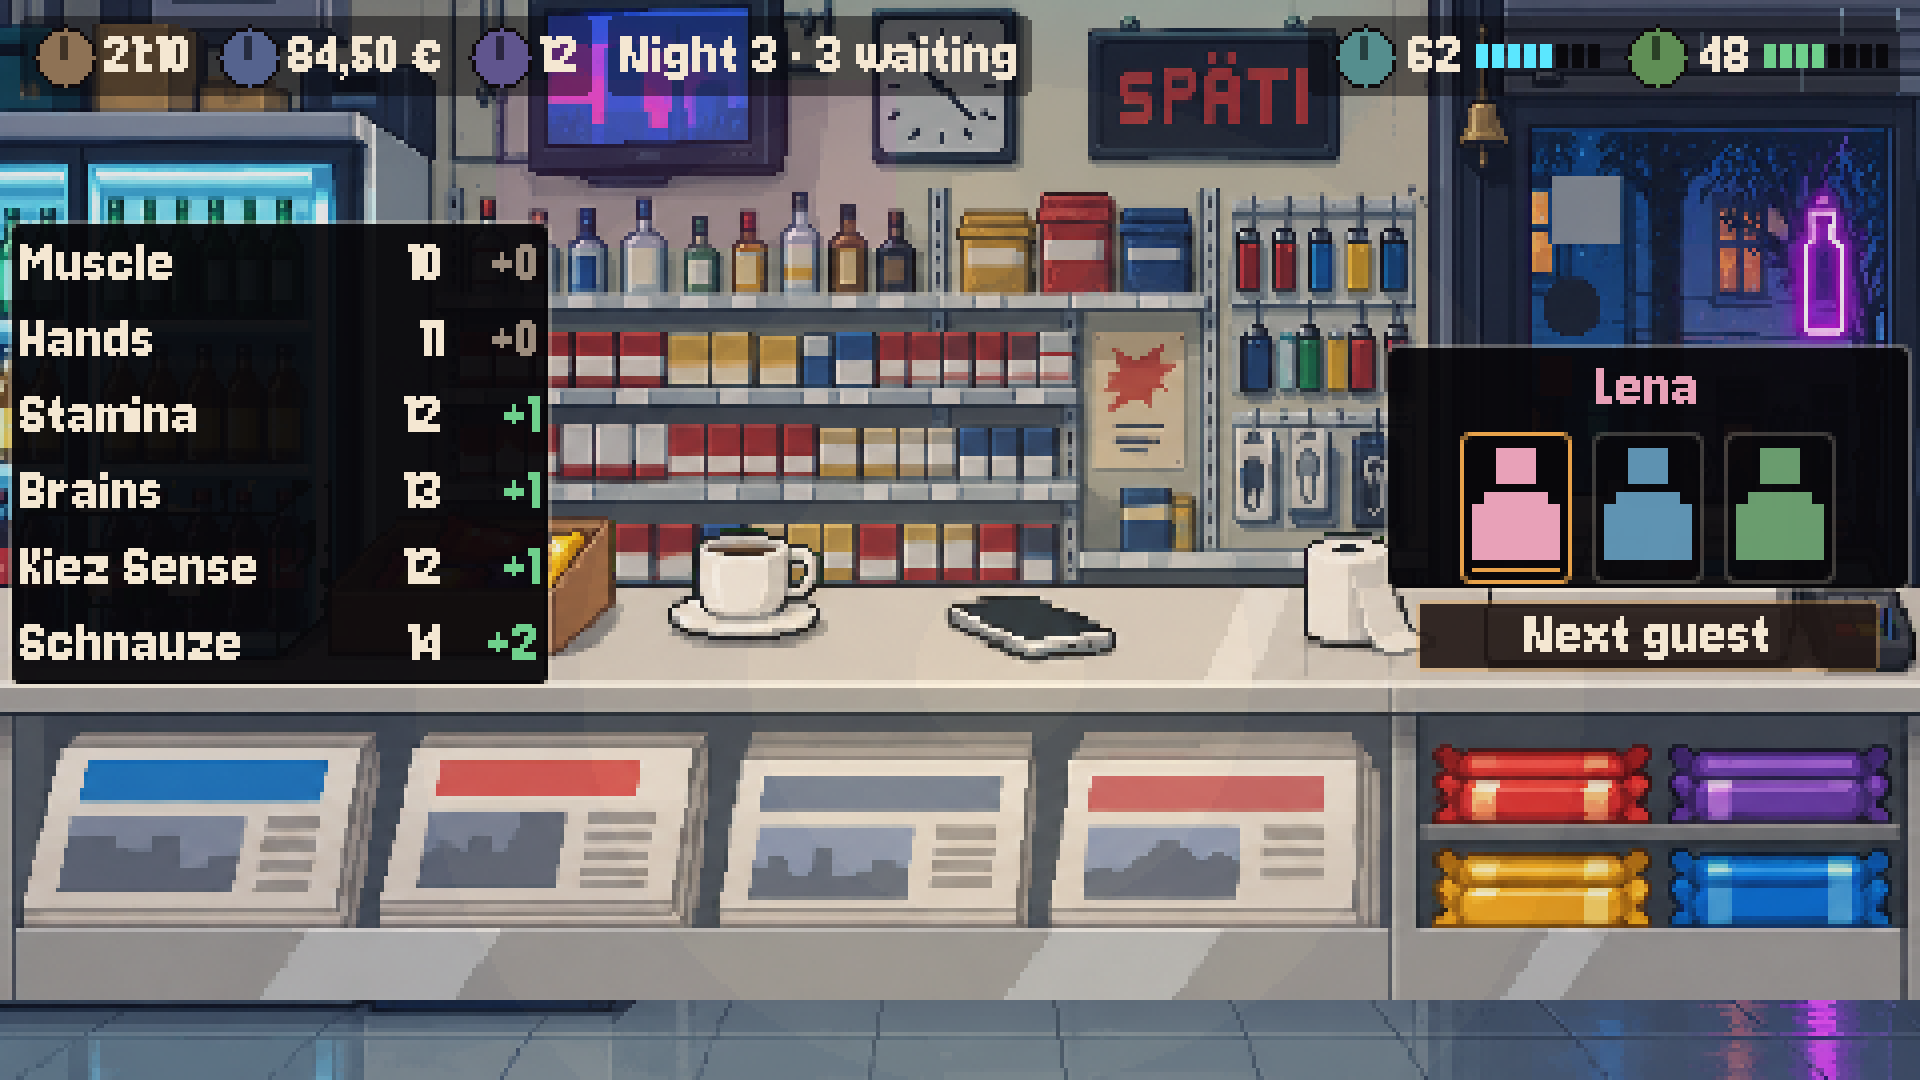
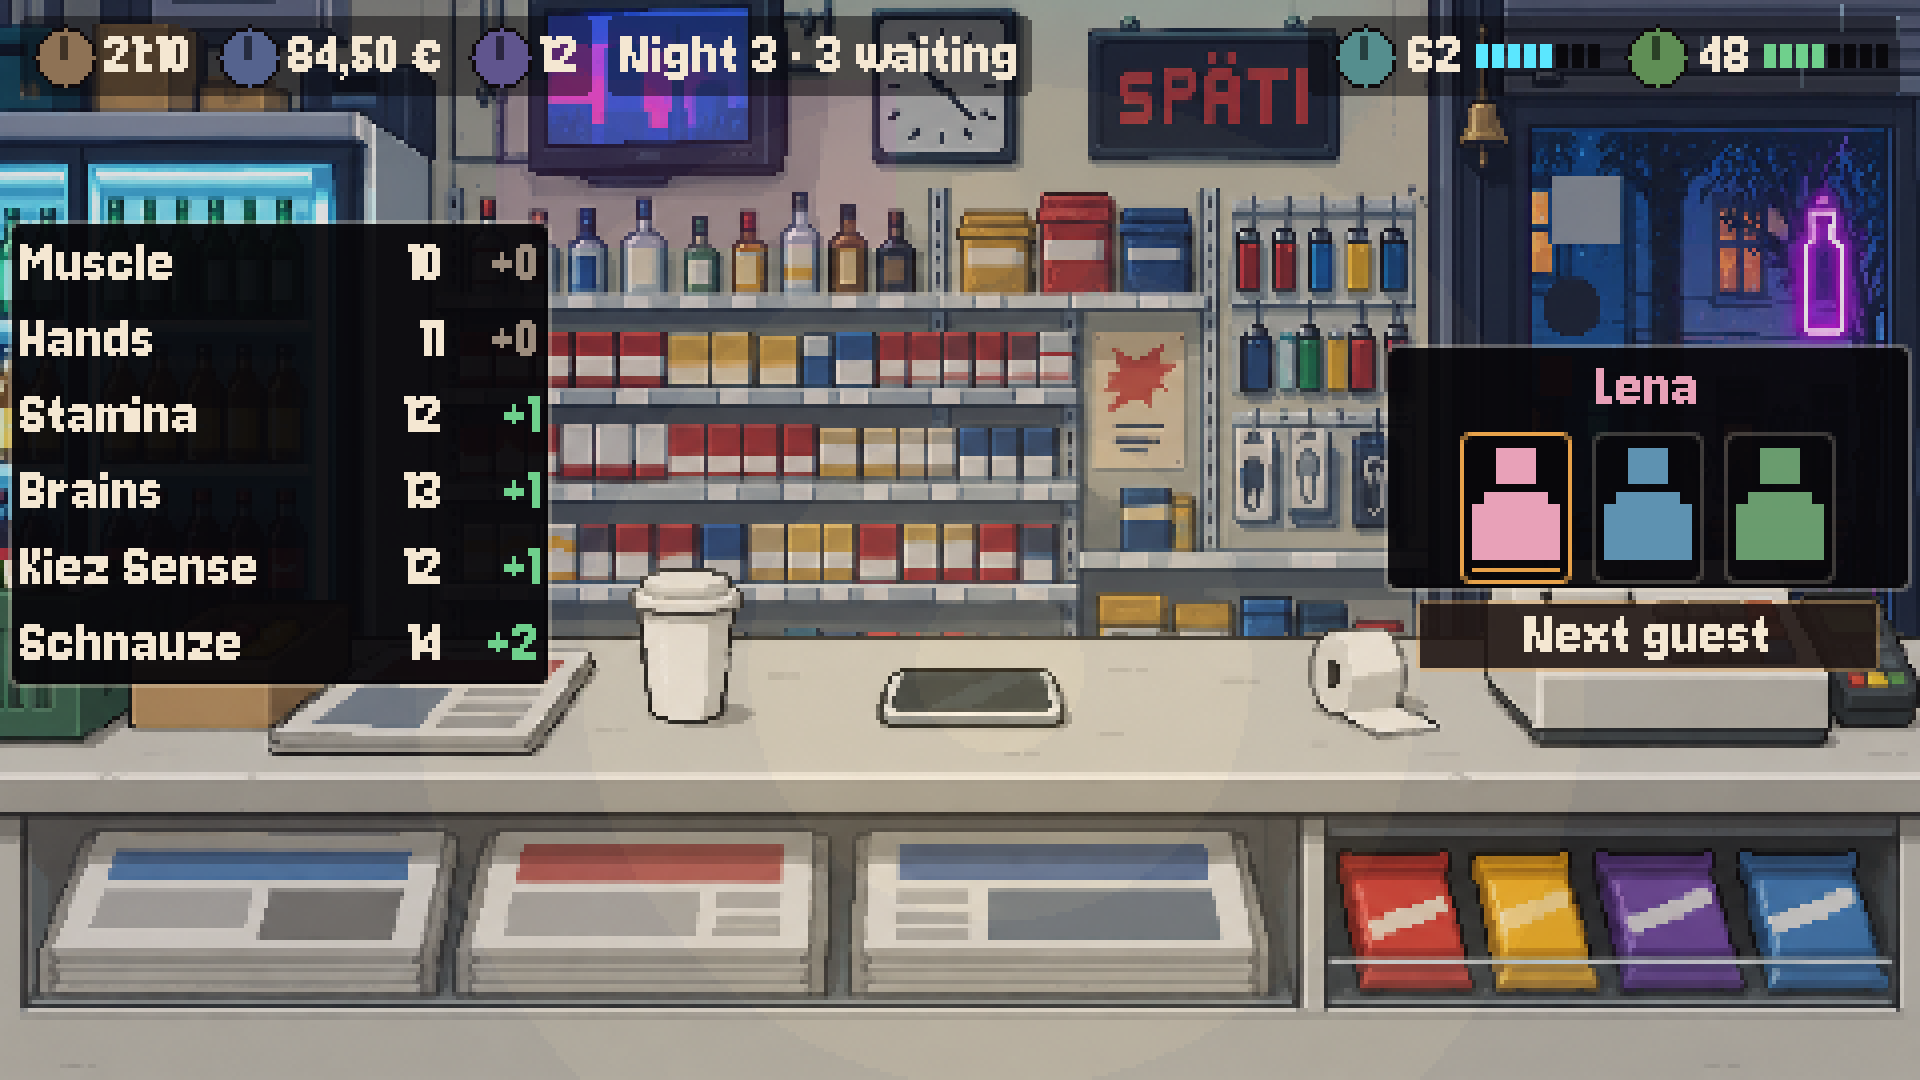
gallery: round-4 frames (Lena r5 leaning, counter r7)

diff --git a/docs/gallery/README.md b/docs/gallery/README.md
@@ -2,9 +2,9 @@
 
 | File | What | Judge |
 |---|---|---|
-| night-dialogue_choice.png | Hero screen: Lena at the counter of the real-Späti set (backdrop r5, counter r6), the two choices inside the dialogue panel, bust at the target size (144×174) | astra 71 → 74 (round 1: choices inside the panel, three HUD plates) → 70/74 (round 2: bust 144×174 — "submerged"); round 3 (shaped light pool, counter lifted, minimal HUD in conversation) judging |
+| night-dialogue_choice.png | Hero screen: Lena (r5, leaning with both forearms on the counter) at the real-Späti set with counter r7 (takeaway cup, newspaper, Pfand crate, till), the two choices inside the dialogue panel, minimal HUD during the conversation, stepped warm light pool | astra 71 → 74 → 73 → 72 (round 4 with the forearms hidden) → round 4 re-seated: judging |
 | night-customer_at_counter.png | Order stage: Lena asks for a Mate (bubble), Serve toggle and Next guest on offer, no conversation open | — |
-| night-talk_result.png | After a Schnauze check: d20 14 + 2 = 16 vs 12 → success; Lena switches to her WARM expression (the per-node expression drives the Portrait); the queue shows Jürgen next | — |
+| night-talk_result.png | After a Schnauze check: d20 14 + 2 = 16 vs 12 → success; Lena switches to her WARM expression (r5 pose kept); the queue shows Jürgen next | — |
 | night-queue_waiting.png | The line: three guests waiting, stats strip (Muscle…Schnauze), Next guest | — |
 | play-queue.png / play-talk-choice.png | Real playthrough frames (scripted driver on the live engine) | — |
 | title-r4.png | Title key art (astra) | **86 pass** |
